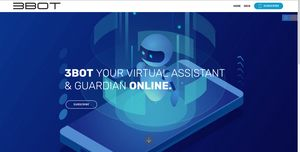
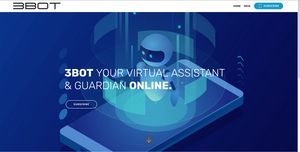
put form back

diff --git a/index.html b/index.html
@@ -15,8 +15,8 @@
   <link rel="stylesheet" href="assets/bootstrap/css/bootstrap.min.css">
   <link rel="stylesheet" href="assets/bootstrap/css/bootstrap-grid.min.css">
   <link rel="stylesheet" href="assets/bootstrap/css/bootstrap-reboot.min.css">
-  <link rel="stylesheet" href="assets/socicon/css/styles.css">
   <link rel="stylesheet" href="assets/dropdown/css/style.css">
+  <link rel="stylesheet" href="assets/socicon/css/styles.css">
   <link rel="stylesheet" href="assets/theme/css/style.css">
   <link rel="stylesheet" href="assets/mobirise/css/mbr-additional.css" type="text/css">
   
@@ -52,14 +52,14 @@
                     <a class="nav-link link text-black display-4" href="index.html">
                         HOME<br></a>
                 </li><li class="nav-item"><a class="nav-link link text-black display-4" href="index.html#image1-9">DECK</a></li></ul>
-            <div class="navbar-buttons mbr-section-btn"><a class="btn btn-sm btn-primary display-4" href="index.html#form3-3">
+            <div class="navbar-buttons mbr-section-btn"><a class="btn btn-sm btn-primary display-4" href="index.html#form3-c">
                     <span class="btn-icon mbri-mobile mbr-iconfont mbr-iconfont-btn">
                     </span>SUBSCRIBE</a></div>
         </div>
     </nav>
 </section>
 
-<section class="engine"><a href="https://mobirise.info/z">best html templates</a></section><section class="header11 cid-rkA3Xv8wsK mbr-fullscreen" id="header11-0">
+<section class="engine"><a href="https://mobirise.info/f">simple web creator</a></section><section class="header11 cid-rkA3Xv8wsK mbr-fullscreen" id="header11-0">
 
     <!-- Block parameters controls (Blue "Gear" panel) -->
     
@@ -80,6 +80,44 @@
         <a href="#next">
             <i class="mbri-down mbr-iconfont"></i>
         </a>
+    </div>
+</section>
+
+<section class="mbr-section form3 cid-rD57SF91De" id="form3-c">
+
+    
+
+    
+
+    <div class="container">
+        <div class="row justify-content-center">
+            <div class="title col-12 col-lg-8">
+                <h2 class="align-center pb-2 mbr-fonts-style display-2">
+                    Stay up to date</h2>
+                <h3 class="mbr-section-subtitle align-center pb-5 mbr-light mbr-fonts-style display-5">
+                    Subscribe to our Newsletter
+                </h3>
+            </div>
+        </div>
+
+        <div class="row py-2 justify-content-center">
+            <div class="col-12 col-lg-6  col-md-8 " data-form-type="formoid">
+                <!---Formbuilder Form--->
[1 lines of base64/hex data omitted]
+                    <div class="row">
+                        <div hidden="hidden" data-form-alert="" class="alert alert-success col-12">Thank you for signing up to the 3bot newsletter!</div>
+                        <div hidden="hidden" data-form-alert-danger="" class="alert alert-danger col-12">
+                        </div>
+                    </div>
+                    <div class="dragArea row">
+                        <div class="form-group col" data-for="email">
+                            <input type="email" name="email" placeholder="Email" data-form-field="Email" required="required" class="form-control display-7" id="email-form3-c">
+                        </div>
+                        <div class="col-auto input-group-btn"><button type="submit" class="btn btn-primary display-4">SUBSCRIBE</button></div>
+                    </div>
+                </form><!---Formbuilder Form--->
+            </div>
+        </div>
     </div>
 </section>
 
@@ -145,13 +183,14 @@
   <script src="assets/popper/popper.min.js"></script>
   <script src="assets/tether/tether.min.js"></script>
   <script src="assets/bootstrap/js/bootstrap.min.js"></script>
+  <script src="assets/smoothscroll/smooth-scroll.js"></script>
   <script src="assets/cookies-alert-plugin/cookies-alert-core.js"></script>
   <script src="assets/cookies-alert-plugin/cookies-alert-script.js"></script>
   <script src="assets/dropdown/js/nav-dropdown.js"></script>
   <script src="assets/dropdown/js/navbar-dropdown.js"></script>
   <script src="assets/touchswipe/jquery.touch-swipe.min.js"></script>
-  <script src="assets/smoothscroll/smooth-scroll.js"></script>
   <script src="assets/theme/js/script.js"></script>
+  <script src="assets/formoid/formoid.min.js"></script>
   
   
 <input name="cookieData" type="hidden" data-cookie-colorText='#424a4d' data-cookie-colorBg='rgba(234, 239, 241, 0.99)' data-cookie-colorButton='#ffffff' data-cookie-colorLink='#424a4d' data-cookie-underlineLink='true' data-cookie-text="We use cookies to give you the best experience. Read our <a href='https://docs.google.com/document/u/1/d/e/2PACX-1vSXDk6x8zuW4oEfiaO_bPD1TULa9E4IvkemM_VhDTleWZdJLjP9-s0_KEB3g2q2Ob5Yb3SvloD_Ga6B/pub' target='_blank'>privacy policy</a>.">

diff --git a/assets/mobirise/css/mbr-additional.css b/assets/mobirise/css/mbr-additional.css
@@ -1812,6 +1812,51 @@ body {
   font-style: italic;
   letter-spacing: 1rem;
 }
+.cid-rD57SF91De {
+  padding-top: 90px;
+  padding-bottom: 90px;
+  background-color: #ffffff;
+}
+.cid-rD57SF91De .mbr-section-subtitle {
+  color: #767676;
+}
+.cid-rD57SF91De .formoid {
+  margin: auto;
+}
+.cid-rD57SF91De .form-control {
+  padding-left: 1.5rem;
+  padding-right: 1.5rem;
+}
+.cid-rD57SF91De .input-group-btn .btn {
+  padding-top: 1rem;
+  padding-bottom: 1rem;
+  margin: 0 !important;
+}
+.cid-rD57SF91De a:not([href]):not([tabindex]) {
+  color: #fff;
+}
+.cid-rD57SF91De a.btn-white:not([href]):not([tabindex]) {
+  color: #333;
+}
+@media (max-width: 768px) {
+  .cid-rD57SF91De .mbr-form .row {
+    -webkit-flex-direction: column;
+    flex-direction: column;
+    -webkit-align-items: center;
+    align-items: center;
+  }
+  .cid-rD57SF91De .form-group,
+  .cid-rD57SF91De .input-group-btn,
+  .cid-rD57SF91De .input-group-btn .btn {
+    max-width: 300px;
+    width: 100%;
+  }
+}
+@media (min-width: 769px) {
+  .cid-rD57SF91De .mbr-form .row > * {
+    padding: 0 0.5rem;
+  }
+}
 .cid-rm2gOji0vt {
   background: #ffffff;
   padding-top: 60px;
